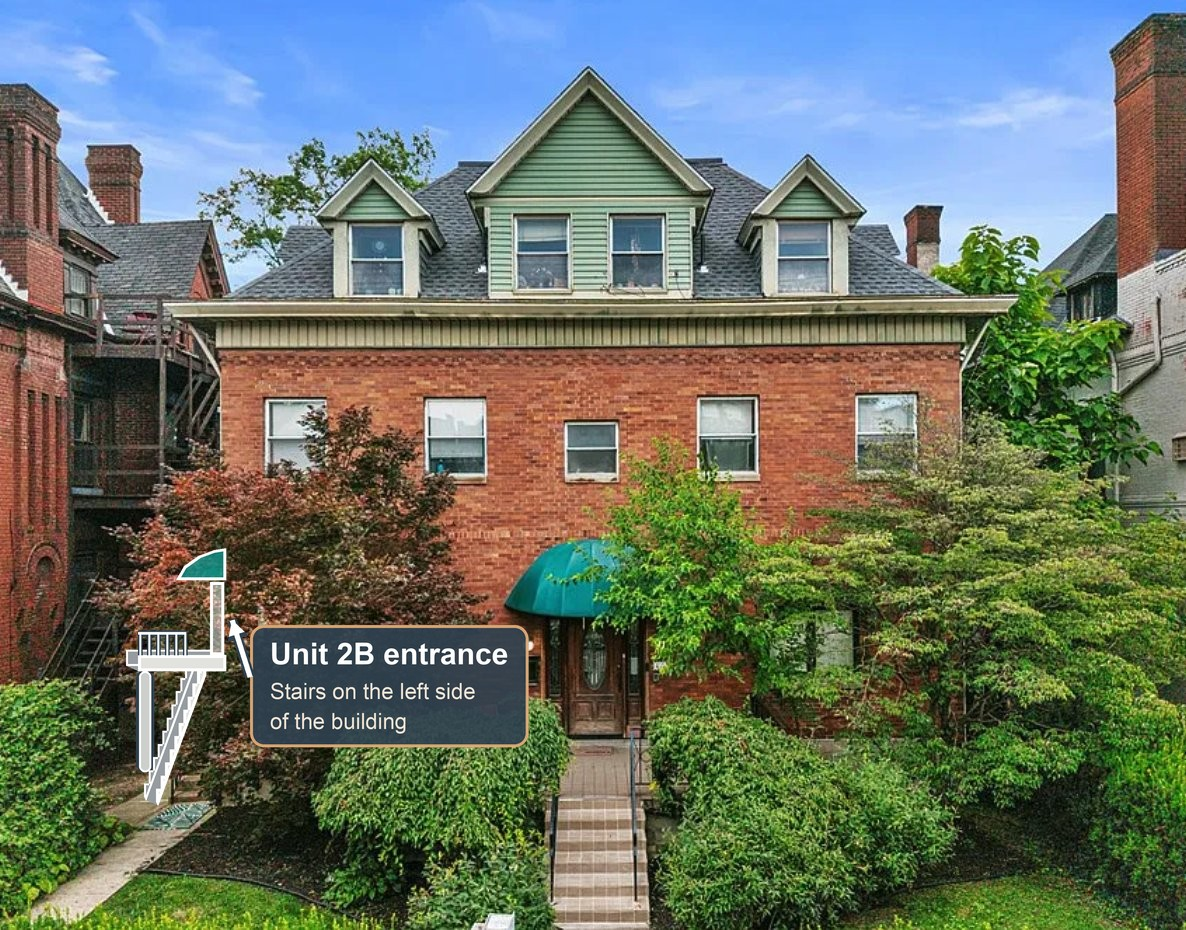
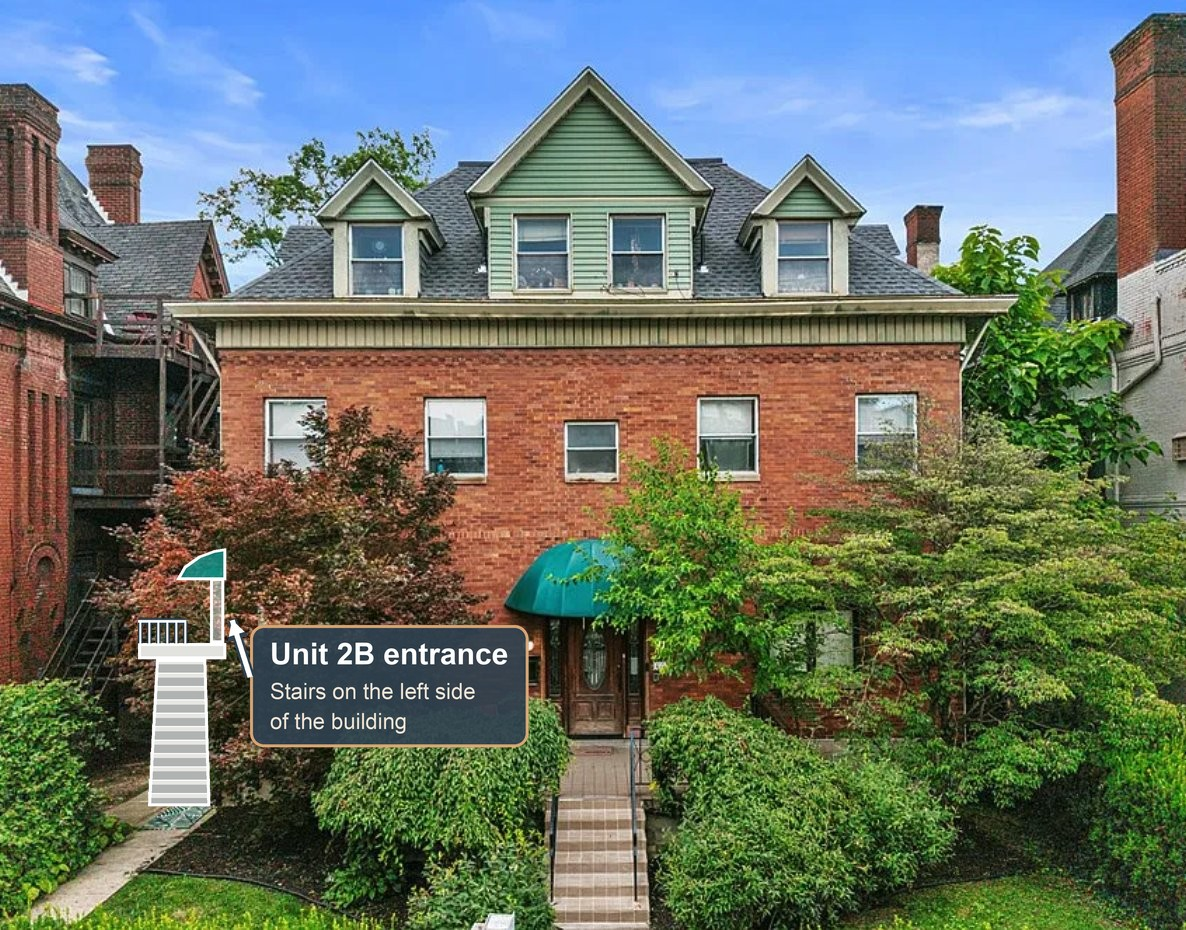
Building photo: draw the side stairs straight on, without a column
Claude-Session: https://claude.ai/code/session_01AzBiAPeqHAWLghxkCbou5b

Changed region(s): [[0.0936, 0.6548, 0.1872, 0.8731]]

diff --git a/tools/annotate_front_photo.py b/tools/annotate_front_photo.py
@@ -11,47 +11,47 @@ SS = 3
 ov = Image.new("RGBA", (W*SS, H*SS), (0,0,0,0)); d = ImageDraw.Draw(ov)
 def s(pts): return [(round(x*SS), round(y*SS)) for x,y in pts]
 
-def flight(x0, y0, x1, y1, n, thick=15):
-    """Solid stair flight rising left->right from (x0,y0) to (x1,y1): step profile on top, slab underneath."""
-    run, rise = (x1-x0)/n, (y0-y1)/n
-    top = [(x0, y0)]
-    for i in range(n):
-        x, y = top[-1]
-        top += [(x, y-rise), (x+run, y-rise)]
-    slope = (x1-x0)/(y0-y1)
-    return top + [(x1, y1+thick), (x0+thick*slope*0.3, y0+thick*0.2)]
+# --- Unit 2B stairs, seen straight on --------------------------------------
+# One straight concrete flight running back from the doormat to a landing at the
+# Unit 2B door, so from the street it reads as a stack of steps (like the front steps).
+N_STEPS = 11
+BOTTOM_Y, TOP_Y = 806, 659                   # bottom of first riser, top of last tread
+BOTTOM_X = (148, 210)                        # stair width at the doormat
+TOP_X = (156, 206)                           # slightly narrower farther back
+RISER, TREAD = (176, 179, 178, 255), (230, 230, 226, 255)
 
-def slab(xa, xb, y, thick=13):
-    return [(xa, y), (xb, y), (xb, y+thick), (xa, y+thick)]
+def lerp(a, b, t): return a + (b - a) * t
+step_h = (BOTTOM_Y - TOP_Y) / N_STEPS
+steps = []
+for i in range(N_STEPS):
+    t = i / (N_STEPS - 1)
+    xl, xr = lerp(BOTTOM_X[0], TOP_X[0], t), lerp(BOTTOM_X[1], TOP_X[1], t)
+    yb = BOTTOM_Y - i * step_h; yt = yb - step_h
+    steps.append((xl, xr, yt, yb))
 
-shapes = [
-    flight(156, 802, 206, 657, 11, thick=18),   # one straight flight from the doormat
-    slab(138, 226, 655, 16),                    # top landing: concrete slab at the Unit 2B door
-]
-# round concrete column under the top landing's outer corner (drawn first, behind the stairs)
-cx0, cx1, ctop, cbot = 139, 151, 671, 772
-d.rounded_rectangle(s([(cx0-3, ctop), (cx1+3, cbot)]), radius=8*SS, fill=NAVY+(255,))
-d.rounded_rectangle(s([(cx0, ctop), (cx1, cbot)]), radius=6*SS, fill=(205,207,204,255), outline=WHITE+(255,), width=2*SS)
+# navy edge around the whole flight, then each step: lighter tread on top of a riser
+outline = [(steps[0][0], steps[0][3]), (steps[0][1], steps[0][3]),
+           (steps[-1][1], steps[-1][2]), (steps[-1][0], steps[-1][2])]
+d.polygon(s(outline), outline=NAVY+(255,), width=7*SS)
+for xl, xr, yt, yb in steps:
+    tread_b = yt + step_h * 0.38
+    d.rectangle(s([(xl, tread_b), (xr, yb)]), fill=RISER)
+    d.rectangle(s([(xl, yt), (xr, tread_b)]), fill=TREAD)
+    d.line(s([(xl, yt), (xr, yt)]), fill=WHITE+(255,), width=2*SS)
+d.polygon(s(outline), outline=WHITE+(255,), width=3*SS)
 
-# solid concrete look: sweep each shape back toward the wall to give it width,
-# then draw the front face light with the white outline over a navy edge
-DEPTH, DX, DY = 12, -1.0, -0.45          # extrusion direction (back and up)
-def shifted(poly, k): return [(x+DX*k, y+DY*k) for x, y in poly]
-for poly in shapes:
-    d.polygon(s(shifted(poly, DEPTH)), outline=NAVY+(255,), width=7*SS)
-    d.polygon(s(poly), outline=NAVY+(255,), width=7*SS)
-for poly in shapes:
-    for k in range(DEPTH, 0, -1):
-        d.polygon(s(shifted(poly, k)), fill=(150,156,160,255))
-    d.polygon(s(shifted(poly, DEPTH)), outline=WHITE+(255,), width=2*SS)
-    d.polygon(s(poly), fill=(226,226,222,255), outline=WHITE+(255,), width=3*SS)
+# landing slab at the top, level and straight on
+slab = [(138, 643), (226, 643), (226, 659), (138, 659)]
+d.polygon(s(slab), outline=NAVY+(255,), width=7*SS)
+d.polygon(s(slab), fill=(226,226,222,255), outline=WHITE+(255,), width=3*SS)
+
 # railing along the outer part of the top landing
 for w, c in [(6, NAVY), (2.5, WHITE)]:
-    d.line(s([(138, 633), (186, 633)]), fill=c+(255,), width=round(w*SS))
+    d.line(s([(138, 621), (186, 621)]), fill=c+(255,), width=round(w*SS))
     for x in range(140, 188, 9):
-        d.line(s([(x, 633), (x, 655)]), fill=c+(255,), width=round(w*SS*0.8))
+        d.line(s([(x, 621), (x, 643)]), fill=c+(255,), width=round(w*SS*0.8))
 # door on the side wall, under the awning
-door = [(210,582),(224,582),(224,655),(210,655)]
+door = [(210,578),(224,578),(224,643),(210,643)]
 d.polygon(s(door), outline=NAVY+(255,), width=6*SS)
 d.polygon(s(door), fill=(255,255,255,120), outline=WHITE+(255,), width=3*SS)
 # green awning over the landing (visible through the tree at ~200-220, 560-577)
